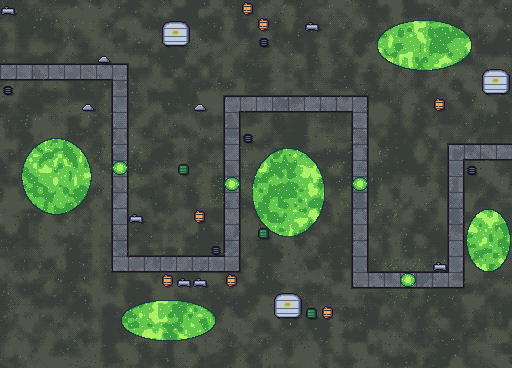
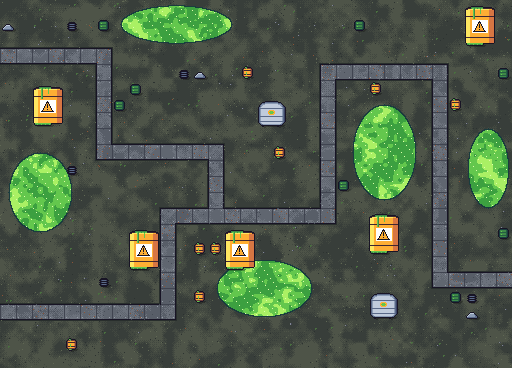
Acid Refinery: two roads and huge hazard barrels, no acid puddles
The map was too easy with puddles poisoning the enemies, so the puddle
mechanic is gone. Instead two roads, from the top left and the bottom
left, join in the middle. Five huge (2x3 tile) yellow drums with a
warning label and acid running over the lid stand around the yard;
lakes and tanks moved to fit the new roads.

diff --git a/tools/gen_art.py b/tools/gen_art.py
@@ -415,10 +415,10 @@ MAPS = [
          decor=['dead_tree', 'tomb', 'tomb_cross', 'skull', 'pumpkin', 'rock'], density=0.035,
          desc='The dead crawl out of the crypt. Short roads, no rest.'),
     dict(id='refinery', name='Acid Refinery', theme='toxic', tier='Advanced', hp_mult=1.2, seed=31, seed_idx=7,
-         paths=[[(-1, 4), (7, 4), (7, 16), (14, 16), (14, 6), (22, 6), (22, 17), (28, 17), (28, 9), (33, 9)]],
-         acid_road=[(7, 10), (14, 11), (22, 11), (25, 17)],
+         paths=[[(-1, 3), (6, 3), (6, 9), (13, 9), (13, 13), (20, 13), (20, 4), (27, 4), (27, 17), (33, 17)],
+                [(-1, 19), (10, 19), (10, 13), (13, 13), (20, 13), (20, 4), (27, 4), (27, 17), (33, 17)]],
          decor=['toxic_barrel', 'toxic_barrel', 'acid_barrel', 'pipe', 'tires', 'rock'], density=0.05,
-         desc='Leaking barrels everywhere. Acid puddles on the road eat at the enemies.'),
+         desc='Two roads through a leaking chemical plant. They join in the middle.'),
     dict(id='volcano', name='Volcano', theme='volcano', tier='Expert', hp_mult=1.45, seed=3, seed_idx=4,
          paths=[[(5, -1), (5, 6), (27, 6), (27, 23)],
                 [(-1, 17), (14, 17), (14, 12), (27, 12), (27, 23)]],
@@ -495,8 +495,8 @@ def bake_map(m, cols=32, rows=23, variant=None):
                       (20.0, 17.0, 4.0, 2.6), (8.5, 20.5, 3.5, 1.5)]]
     if m['id'] == 'refinery':
         ellipses += [('acid', cx, cy, rx, ry) for (cx, cy, rx, ry) in
-                     [(3.5, 11.0, 2.2, 2.4), (18.0, 12.0, 2.3, 2.8), (26.5, 2.8, 3.0, 1.6), (10.5, 20.0, 3.0, 1.3),
-                      (30.5, 15.0, 1.4, 2.0)]]
+                     [(2.5, 12.0, 2.0, 2.5), (16.5, 18.0, 3.0, 1.8), (24.0, 9.5, 2.0, 3.0), (11.0, 1.5, 3.5, 1.2),
+                      (30.5, 10.5, 1.3, 2.5)]]
     if m['id'] == 'swamp':
         ellipses += [('bog', cx, cy, rx, ry) for (cx, cy, rx, ry) in
                      [(3.5, 14.5, 2.6, 3.0), (19.5, 12.0, 4.0, 1.7), (28.5, 4.5, 2.8, 2.6), (13.5, 21.3, 3.2, 1.3),
@@ -730,8 +730,6 @@ def bake_map(m, cols=32, rows=23, variant=None):
                         px[xx, yy] = C['gold'] + (255,)
     if m['id'] == 'swamp':
         paint_lily_pads(img, rnd, special_px, W, H)
-    if m['id'] == 'refinery':
-        paint_acid_puddles(img, rnd, m['acid_road'], ptiles, cols, rows)
     # lava glow speck
     if det == 'embers':
         for (tx, ty), k in special.items():
@@ -766,15 +764,10 @@ def bake_map(m, cols=32, rows=23, variant=None):
         place('trash', 21, 5)
         place('hydrant', 2, 9)
     if m['id'] == 'refinery':
-        # nobody builds next to a puddle on the road (the splashes would eat the tower)
-        for (x, y) in m['acid_road']:
-            for dx in (-1, 0, 1):
-                for dy in (-1, 0, 1):
-                    if (x + dx, y + dy) not in ptiles:
-                        blocked.add((x + dx, y + dy))
-        place('tank', 10, 1, 2, 2)
-        place('tank', 17, 18, 2, 2)
-        place('tank', 30, 4, 2, 2)
+        place('tank', 16, 6, 2, 2)
+        place('tank', 23, 18, 2, 2)
+        for (x, y) in ((2, 5), (8, 14), (29, 0), (14, 14), (23, 13)):
+            place('big_barrel', x, y, 2, 3)
     if m['id'] == 'graveyard':
         draw_crypt(img, 20 * T, 0, 5 * T, 3 * T)
         for (rect, xs, ys, chance) in GRAVE_PLOTS:
@@ -1164,32 +1157,6 @@ def draw_crypt(img, x0, y0, w, h):
         px[x0 + w - 1, y] = C['black'] + (255,)
 
 
-def paint_acid_puddles(img, rnd, road, ptiles, cols, rows):
-    """Bright acid puddles on the road tiles in `road`; the ground around them is stained green."""
-    px = img.load()
-    for (tx, ty) in road:
-        cx, cy = tx * T + 8, ty * T + 8
-        for y in range(ty * T, ty * T + T):
-            for x in range(tx * T, tx * T + T):
-                d = ((x + 0.5 - cx) / 7.0) ** 2 + ((y + 0.5 - cy) / 6.0) ** 2
-                if d <= 1.0:
-                    col = (170, 240, 100) if d < 0.25 else (C['lgreen'] if d < 0.7 else (60, 160, 64))
-                    if (x * 5 + y * 3) % 13 == 0:
-                        col = (220, 255, 170)
-                    px[x, y] = col + (255,)
-                elif d <= 1.35:
-                    px[x, y] = C['xdgreen'] + (255,)
-        # stains on the blocked ground around it
-        for dx in (-1, 0, 1):
-            for dy in (-1, 0, 1):
-                nt = (tx + dx, ty + dy)
-                if nt in ptiles or not (0 <= nt[0] < cols and 0 <= nt[1] < rows):
-                    continue
-                for _ in range(10):
-                    x, y = nt[0] * T + rnd.randrange(1, 15), nt[1] * T + rnd.randrange(1, 15)
-                    px[x, y] = rnd.choice([(74, 112, 64), (60, 160, 64), C['xdgreen']]) + (255,)
-
-
 def paint_lily_pads(img, rnd, special_px, W, H):
     px = img.load()
     for _ in range(400):
@@ -1244,7 +1211,6 @@ def gen_maps():
         lines.append('\t\t"blocked": [%s],' % ', '.join(rows_txt))
         lava = sorted(t for t, k in special.items() if k == 'lava' and 0 <= t[0] < cols and 0 <= t[1] < 22)
         lines.append('\t\t"lava": [%s],' % ', '.join('Vector2i(%d, %d)' % t for t in lava))
-        lines.append('\t\t"acid": [%s],' % ', '.join('Vector2i(%d, %d)' % t for t in m.get('acid_road', [])))
         lines.append('\t},')
     lines.append('}')
     with open(os.path.join(ROOT, 'scripts/data/maps_data.gd'), 'w') as f:

diff --git a/tools/sprites.py b/tools/sprites.py
@@ -553,6 +553,58 @@ PIPE = [
     "dd.......ddd",
 ]
 PIPE_C = {'r': 'red', 's': 'dgray', 'p': 'xdgray', 'P': 'gray', 'L': 'lgray', 'd': 'dgray'}
+def _big_barrel(W=30, H=40):
+    """Huge yellow drum: lid, ribs, a white hazard label (black triangle with "!"), acid over the lid, a puddle."""
+    r = [['.'] * W for _ in range(H)]
+    top, bot = 4, H - 3
+    for y in range(top, bot):
+        for x in range(1, W - 1):
+            r[y][x] = 'y' if x <= 4 else ('o' if x >= W - 6 else 'Y')
+    for x in range(3, W - 3):              # lid
+        r[top - 2][x] = 'd'
+        r[top - 1][x] = 'y' if x < W - 6 else 'Y'
+    for x in (1, 2, W - 3, W - 2):
+        r[top - 1][x] = 'd'
+    for y in (top + 6, bot - 6):           # ribs
+        for x in range(1, W - 1):
+            r[y][x] = 'd'
+    lx0, ly0 = 7, top + 10                 # white label with a warning triangle
+    for y in range(ly0, ly0 + 13):
+        for x in range(lx0, lx0 + 16):
+            r[y][x] = 'w'
+    tri = ["......k......",
+           ".....kkk.....",
+           ".....kYk.....",
+           "....kYkYk....",
+           "....kYkYk....",
+           "...kYYkYYk...",
+           "...kYYkYYk...",
+           "..kYYYYYYYk..",
+           "..kYYYkYYYk..",
+           ".kYYYYYYYYYk.",
+           "kkkkkkkkkkkkk"]
+    for dy, row in enumerate(tri):
+        for dx, ch in enumerate(row):
+            if ch != '.':
+                r[ly0 + 1 + dy][lx0 + 1 + dx] = ch
+    for x in range(6, 18):                 # acid spilling over the lid and running down
+        r[top - 3][x] = 'g'
+        r[top - 2][x] = 'G' if x % 3 else 'g'
+    for y in range(top - 1, top + 9):
+        r[y][8] = 'G'
+        r[y][9] = 'g'
+    for y in range(top - 1, top + 4):
+        r[y][15] = 'G'
+    for x in range(2, 18):                 # puddle at the foot
+        r[bot][x] = 'G'
+        r[bot + 1][x] = 'g' if x % 4 else 'G'
+    return [''.join(row) for row in r]
+
+
+BIG_BARREL = _big_barrel()
+BIG_BARREL_C = {'Y': 'gold', 'y': 'yellow', 'o': 'lorange', 'd': 'xdbrown', 'w': 'white', 'k': 'black',
+                'g': 'green', 'G': 'lgreen'}
+
 TANK = [
     "......LLLLLLLLLLLLL.......",
     "...LLLsssssssssssssLLL....",
@@ -584,7 +636,7 @@ TANK_C = {'L': 'dgray', 's': 'gray', 'S': 'lgray', 'd': 'dgray', 'y': 'gold', 'k
 
 DECOR_SPRITES = {
     'toxic_barrel': (TOXIC_BARREL, TOXIC_BARREL_C), 'acid_barrel': (ACID_BARREL, ACID_BARREL_C),
-    'pipe': (PIPE, PIPE_C), 'tank': (TANK, TANK_C),
+    'pipe': (PIPE, PIPE_C), 'tank': (TANK, TANK_C), 'big_barrel': (BIG_BARREL, BIG_BARREL_C),
     'swamp_tree': (TREE, SWAMP_TREE_C), 'autumn_tree': (TREE, AUTUMN_TREE_C),
     'lamp': (LAMP, LAMP_C), 'hydrant': (HYDRANT, HYDRANT_C), 'trash': (TRASH, TRASH_C),
     'dumpster': (DUMPSTER, DUMPSTER_C), 'reeds': (REEDS, REEDS_C), 'mushroom': (MUSHROOM, MUSHROOM_C),

diff --git a/README.md b/README.md
@@ -53,7 +53,7 @@ Hover over an enemy to see its name, class, HP, speed, armor, fire resistance, c
 - **Volcano:** two short roads, lava on the best spots and an eruption every second wave. Tiles next to the lava flash orange, then towers on them stop shooting for 6 seconds.
 - **Murky Swamp:** the boardwalk crosses itself, so towers near the crossing hit enemies twice. The bog eats the best spots.
 - **Old Graveyard:** a second road starts at the crypt in the middle of the map. Grave plots take some of the space.
-- **Acid Refinery:** acid puddles on the road put acid on every ground enemy walking through (4 dps for 2s, eats 2 armor). Nothing can be built right next to a puddle. Acid lakes and storage tanks take more of the space.
+- **Acid Refinery:** two roads, from the top left and the bottom left, join in the middle. Acid lakes, storage tanks and huge hazard barrels take some of the space.
 - **Acid** hurts over time through armor and, while it lasts, eats some of the enemy's armor, so physical towers hit harder too. The strongest acid on an enemy wins; class doesn't weaken it (it's damage, not control).
 - **Invisible enemies** (Ghost) are drawn see-through and can only be aimed at by towers that spot them: Gunslinger from Hollow Points, Soldier from AP Rounds, and the Sniper always. The Flamethrower can't aim at them, but its flames still burn any that walk through the cone. Garage cars run them over.
 - **Flying enemies** (Bat, Harpy) follow the road in the air. Gunslinger, Soldier and Sniper can shoot them. Knight, Flamethrower, grenades and cars can't reach them.
